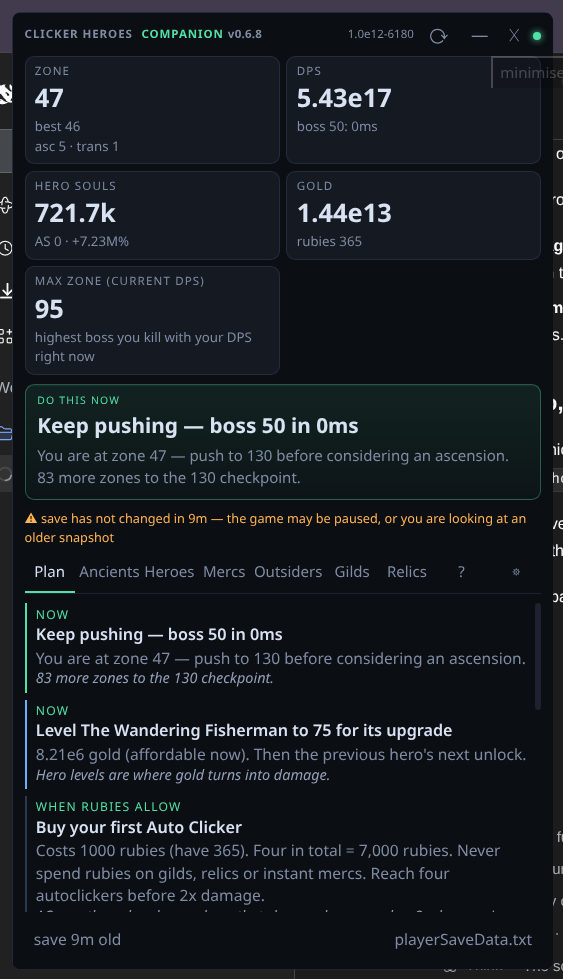
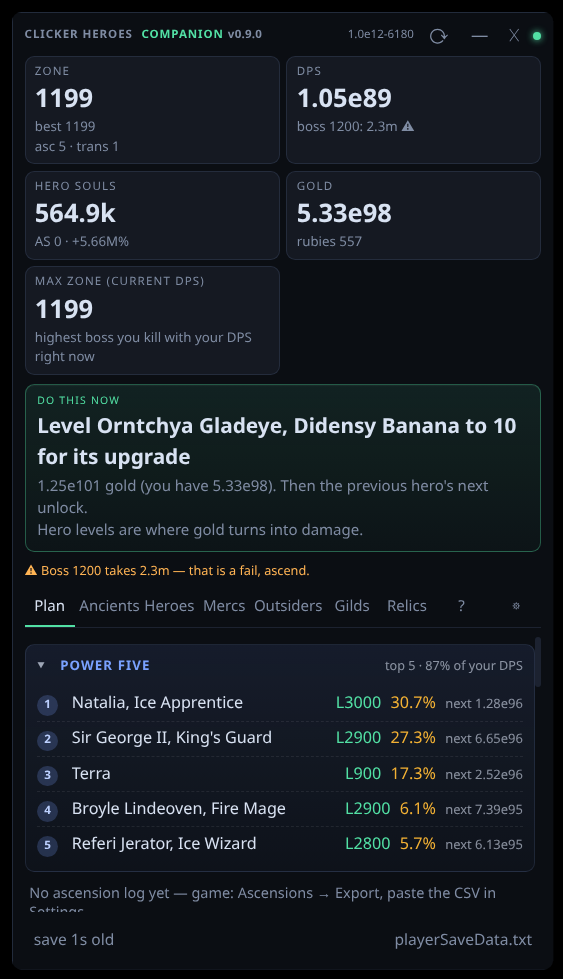
fix: return the parsed logs to the panel; screenshot shows Power Five (0.9.1)
The server parsed ascensionLog/transcensionLog into local variables and never placed them in the
payload, while the UI reads payload.ascensions — so a pasted log still showed 'No ascension log yet'.
Both lists are in the response now.

diff --git a/.github/release-notes/v0.9.1.md b/.github/release-notes/v0.9.1.md
@@ -1,0 +1,5 @@
+## Bug Fixes
+- **Pasted ascension and transcension logs now actually reach the panel.** The server parsed them
+  and then left them out of the response, so the Plan tab kept saying "No ascension log yet". Both
+  lists are returned now; verified with a pasted export (2 ascension rows, 1 transcension row).
+- The screenshot in this README is the 0.9.1 window, Power Five panel included.
